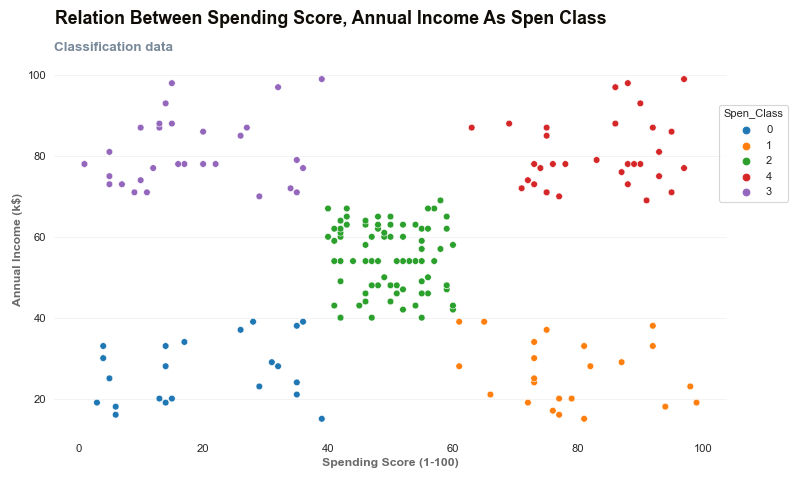
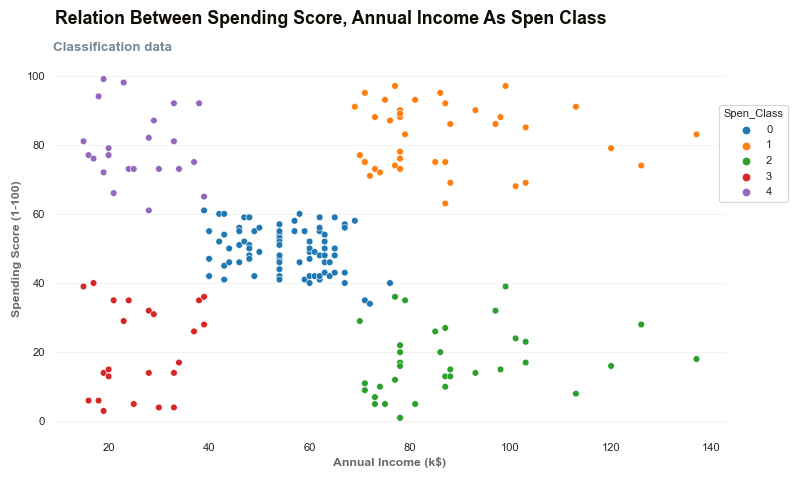
commit

diff --git a/main.py b/main.py
@@ -9,17 +9,17 @@ pd.set_option("display.width", 3000)
 mall_customers_df = eda.import_dataset("Mall_Customers.csv")
 
 
-"""
-eda.display_column_types(mall_customers_df)
-Numerical Columns: ['CustomerID', 'Age', 'Annual Income (k$)', 'Spending Score (1-100)']
-Categorical Columns: ['Gender']
----------------------------------------------------------------------------------------------------------
-eda.display_describe_data(mall_customers_df)
-print(f"Number of Customers {200}".title())
-print(f"The average annual income per customer {60.56}".title())
-print(f"The median age of customers {36}".title() )
-print(f"The standard deviations for age {13.97} and the std for annual income {26.26}".title() )
-"""
+# eda.display_column_types(mall_customers_df)
+# Numerical Columns: ['CustomerID', 'Age', 'Annual Income (k$)', 'Spending Score (1-100)']
+# Categorical Columns: ['Gender']
+
+# eda.display_describe_data(mall_customers_df)
+# print(f"Number of Customers {200}".title())
+# print(f"The average annual income per customer {60.56}".title())
+# print(f"The median age of customers {36}".title() )
+# print(f"The standard deviations for age {13.97} and the std for annual income {26.26}".title()
+
+
 # Numerical Columns: ['CustomerID', 'Age', 'Annual Income (k$)', 'Spending Score (1-100)']
 # Categorical Columns: ['Gender']
 # eda.visualize_distribution_of_numeric_col(mall_customers_df, "Annual Income (k$)", 6)
@@ -54,30 +54,28 @@ print(f"The standard deviations for age {13.97} and the std for annual income {2
 
 # eda.vis_heatmap(mall_customers_df)
 
+"""
+pvt_tbl = pd.pivot_table(mall_customers_df, index=["Age", "Gender"], aggfunc={"Annual Income (k$)": np.mean})
+# print(pvt_tbl.head(10))
 
-# pvt_table = pd.pivot_table(mall_customers_df,index=["Age", "Gender"], aggfunc={"Annual Income (k$)": np.mean})
-# print(pvt_table.head(10))
-
-# avg_income = mall_customers_df.groupby(["Age", "Gender"])["Annual Income (k$)"].mean().round(2)
+avg_income = mall_customers_df.groupby(["Age", "Gender"], as_index=False)["Annual Income (k$)"].mean().round(2)
 # print(avg_income)
 
 
-# reshape_pvt = pd.pivot_table(mall_customers_df, index=["Age"], columns=["Gender"]).fillna("No Data")
-# print(reshape_pvt.tail().round(2))
-
-"""
-mall_customers_df["group_age"] = np.where(mall_customers_df["Age"] <= 35, "18-35",
-                                          np.where(mall_customers_df["Age"] <= 47, "36-47",
-                                          np.where(mall_customers_df["Age"] <= 58, "48-58", "59-70")))
+reshape_pvt = pd.pivot_table(mall_customers_df, index=["Age"], columns=["Gender"]).fillna("No Data")
+reshape_pvt.tail().round(2)
 
 
-grouped_df = mall_customers_df.groupby(["group_age", "Gender"])\
-    .agg({"CustomerID": ["count"],
-          "Annual Income (k$)": ["mean"]}).sort_values(("Annual Income (k$)", "mean"),
-                                                       ascending=False)
+mall_customers_df["age_group"] = np.where(mall_customers_df["Age"] < 30, "18-29",
+                                          np.where(mall_customers_df["Age"] < 45, "30-44",
+                                                   np.where(mall_customers_df["Age"] < 55, "45-54", "55+")))
+
+
+grouped_df = mall_customers_df.groupby(["age_group", "Gender"])\
+    .agg({"Annual Income (k$)": ["count", "mean"]}).round(2)
 
 print(grouped_df)
-grouped_df = mall_customers_df.groupby(["group_age", "Gender"])\
+grouped_df = mall_customers_df.groupby(["age_group", "Gender"])\
     .agg({"Annual Income (k$)": ["mean"]}).sort_values(("Annual Income (k$)", "mean"),
                                                        ascending=False)
 
@@ -85,21 +83,21 @@ eda.plot_grouped_by(grouped_df)
 """
 
 
-# X = mall_customers_df.iloc[:, [3, 4]].values
-# kmeans = KMeans(n_clusters=5, init='k-means++', max_iter=300, n_init=10, random_state=0)
-# y_kmeans = kmeans.fit_predict(X)
-# mall_customers_df["Spen_Class"] = y_kmeans
-#
-# eda.visualize_advanced_scatter_plot(mall_customers_df,'Annual Income (k$)', 'Spending Score (1-100)', "Spen_Class")
+X = mall_customers_df.iloc[:, [3, 4]].values
+kmeans = KMeans(n_clusters=5, init='k-means++', max_iter=300, n_init=10, random_state=0)
+y_kmeans = kmeans.fit_predict(X)
+mall_customers_df["Spen_Class"] = y_kmeans
+title = "Relation between spending score, annual income as spen class"
+subtitle = "classification data"
+# eda.visualize_advanced_scatter_plot(mall_customers_df, 'Annual Income (k$)', 'Spending Score (1-100)', "Spen_Class",
+#                                     title, subtitle)
 
+# 0 - Low Income 15 - 40  and Low spending score 1 - 40
+# 1 - Low Income 15 - 40 and High spending score 60 -99
+# 2 - Middle Income 40 - 70 and middle spending score 40 -60
+# 3 - High Income 70 - 99 and Low spending score 1 -40
+# 4 - High Income 70 -99 and High spending score 60 -99
 
-"""
-    0 - Low Income 15 - 40  and Low spending score 1 - 40 
-    1 - Low Income 15 - 40 and High spending score 60 -99
-    2 - Middle Income 40 - 70 and middle spending score 40 -60 
-    3 - High Income 70 - 99 and Low spending score 1 -40 
-    4 - High Income 70 -99 and High spending score 60 -99
-"""
 
 annual_income = mall_customers_df["Annual Income (k$)"]
 spending_score = mall_customers_df["Spending Score (1-100)"]
@@ -118,18 +116,31 @@ conditions = [
 choices = ["0", "1", "2", "3", "4"]
 
 mall_customers_df["Spen_Class"] = np.select(conditions, choices, None)
-culster_data = mall_customers_df.dropna()
-
-# title = "Relation between spending score, annual income as spen class"
-# subtitle = "classification data"
-# eda.visualize_advanced_scatter_plot(culster_data,'Spending Score (1-100)','Annual Income (k$)',"Spen_Class",
+clustering_df = mall_customers_df.dropna()
+# print(clustering_df)
+title = "Relation between spending score, annual income as spen class"
+subtitle = "classification data"
+# eda.visualize_advanced_scatter_plot(clustering_df,'Spending Score (1-100)','Annual Income (k$)',"Spen_Class",
 #                                     title, subtitle)
 
+campaign1 = mall_customers_df.loc[mall_customers_df["Spen_Class"] == "4"]
+# print(campaign1.head())
 
-campaign1 = culster_data.loc[culster_data["Spen_Class"] == "4"]
+title = "count of gender by spending score"
+subtitle = "gender as High Income & High Spending Score"
 
-title = "count of Annual income by spending score"
-subtitle = " "
+eda.vis_top_ten_values(campaign1, "Gender", "Spending Score (1-100)", [17], title, subtitle)
 
-eda.vis_top_ten_values(campaign1, "Spending Score (1-100)", "Annual Income (k$)", [6, 3], title, subtitle)
-# print(campaign1["Spending Score (1-100)"].count())
+
+
+def highlight_cells(value):
+    if value == 4 and value == 2:
+        color = "yellow"
+    else:
+        color = " "
+    return "background-color: {}".format(color)
+
+
+
+
+

diff --git a/pyeda.py b/pyeda.py
@@ -618,7 +618,7 @@ def vis_top_ten_values(data, first_column: str, by_second_column: str, color_bar
     """
     fig, ax = plt.subplots(figsize=(10, 6))
     plt.suptitle(title.title(),
-                 fontweight="heavy", x=0.059, y=0.98, ha="left", fontsize="16",
+                 fontweight="heavy", x=0.085, y=0.98, ha="left", fontsize="16",
                  fontfamily="sans-serif",
                  color=black_grad[0]
                  )
@@ -641,3 +641,11 @@ def vis_top_ten_values(data, first_column: str, by_second_column: str, color_bar
     sns.despine(right=True, top=True, left=True)
     plt.tight_layout()
     plt.show()
+
+
+def highlight_cells(value):
+    if value == 4:
+        color = "yellow"
+    else:
+        color = ""
+    return "background-color: {}".format(color)

diff --git a/readme.md b/readme.md
@@ -87,27 +87,32 @@ Utilize the group by function to calculate the average age, annual income, and s
 
 
 # 4.2) Where function
-    mall_customers_df["group_age"] = np.where(mall_customers_df["Age"] <= 35, "18-35",
-                                          np.where(mall_customers_df["Age"] <= 47, "36-47",
-                                          np.where(mall_customers_df["Age"] <= 58, "48-58", "59-70")))
+    mall_customers_df["age_group"] = np.where(mall_customers_df["Age"] < 30, "18-29",
+                                          np.where(mall_customers_df["Age"] < 45, "30-40",
+                                          np.where(mall_customers_df["Age"] < 55, "45-54", "55+")))
 
 
-    grouped_df = mall_customers_df.groupby(["group_age", "Gender"]).agg({"CustomerID": ["count"],
-                                                                     "Annual Income (k$)": ["mean"]})
+    grouped_df = mall_customers_df.groupby(["age_group", "Gender"])\
+    .agg({"Annual Income (k$)": ["count", "mean"]}).round(2)
 
 
-                       CustomerID      Annual Income (k$)
-                           count               mean
-    group_age  Gender                              
-   
-    18-35      Female         57            55.947368
-               Male           41            64.292683
-    36-47      Female         27            71.037037
-               Male           18            70.777778
-    48-58      Female         20            55.450000
-               Male           13            57.307692
-    59-70      Female          8            52.500000
-               Male           16            51.312500
+                                       Annual Income (k$) 
+
+                                        count   mean
+
+        age_group Gender   
+
+        18-29     Female                 29     50.66
+                  Male                   26     54.65
+        
+        30-44     Female                 46     66.17
+                  Male                   30     75.90
+
+        45-54     Female                 25     58.88
+                  Male                   14     58.21
+
+        55+       Female                 12     54.25
+                  Male                   18     53.50
 
 
 ![Group Age](charts/plot_new_column.png)
@@ -116,35 +121,30 @@ Utilize the group by function to calculate the average age, annual income, and s
 
 The Spen_class column will class the data to five groups as follows:
 
-    0 - Low Income 15 - 40  and Low spending score 1 - 40 
-    1 - Low Income 15 - 40 and High spending score 60 -99
-    2 - Middle Income 40 - 70 and middle spending score 40 -60 
-    3 - High Income 70 - 99 and Low spending score 1 -40 
-    4 - High Income 70 -99 and High spending score 60 -99 
+    X = mall_customers_df.iloc[:, [3, 4]].values
+    kmeans = KMeans(n_clusters=5, init='k-means++', max_iter=300, n_init=10, random_state=0)
+    y_kmeans = kmeans.fit_predict(X)
+    mall_customers_df["Spen_Class"] = y_kmeans
+   
+    title = "Relation between spending score, annual income as spen class"
+    subtitle = "classification data"
+   
+    eda.visualize_advanced_scatter_plot(mall_customers_df, 'Annual Income (k$)', 'Spending Score (1-100)', "Spen_Class",
+                                        title, subtitle)
+        
 
-    
-
-        CustomerID  Gender   Age     Annual Income (k$)  Spending Score (1-100)     Spen_Class
-    0           1    Male     19           15                      39                   0
-    1           2    Male     21           15                      81                   3
-    2           3    Female   20           16                       6                   0
-    3           4    Female   23           16                      77                   3
-    4           5    Female   31           17                      40                   0
-
+        
 
 ![Classification Data](charts/classification_Data.png)
 
 
 ###  DataSet with High Income & High Spending Score 
 
-            CustomerID  Gender   Age       Annual Income (k$)      Spending Score (1-100)   Spen_Class
-        123         124    Male   39                  69                      91                4
-        125         126  Female   31                  70                      77                4
-        127         128    Male   40                  71                      95                4
-        129         130    Male   38                  71                      75                4
-        131         132    Male   39                  71                      75                4
-        133         134  Female   31                  72                      71                4
-        135         136  Female   29                  73                      88                4
-        137         138    Male   32                  73                      73                4
-        139         140  Female   35                  74                      72                4
-        141         142    Male   32                  75                      93                4
+                      CustomerID  Gender  Age  Annual Income (k$)  Spending Score (1-100) Spen_Class
+                123         124    Male   39                  69                      91          4
+                125         126  Female   31                  70                      77          4
+                127         128    Male   40                  71                      95          4
+                129         130    Male   38                  71                      75          4
+                131         132    Male   39                  71                      75          4 
+
+![High Income High Spending Score](charts/campaign.png)
